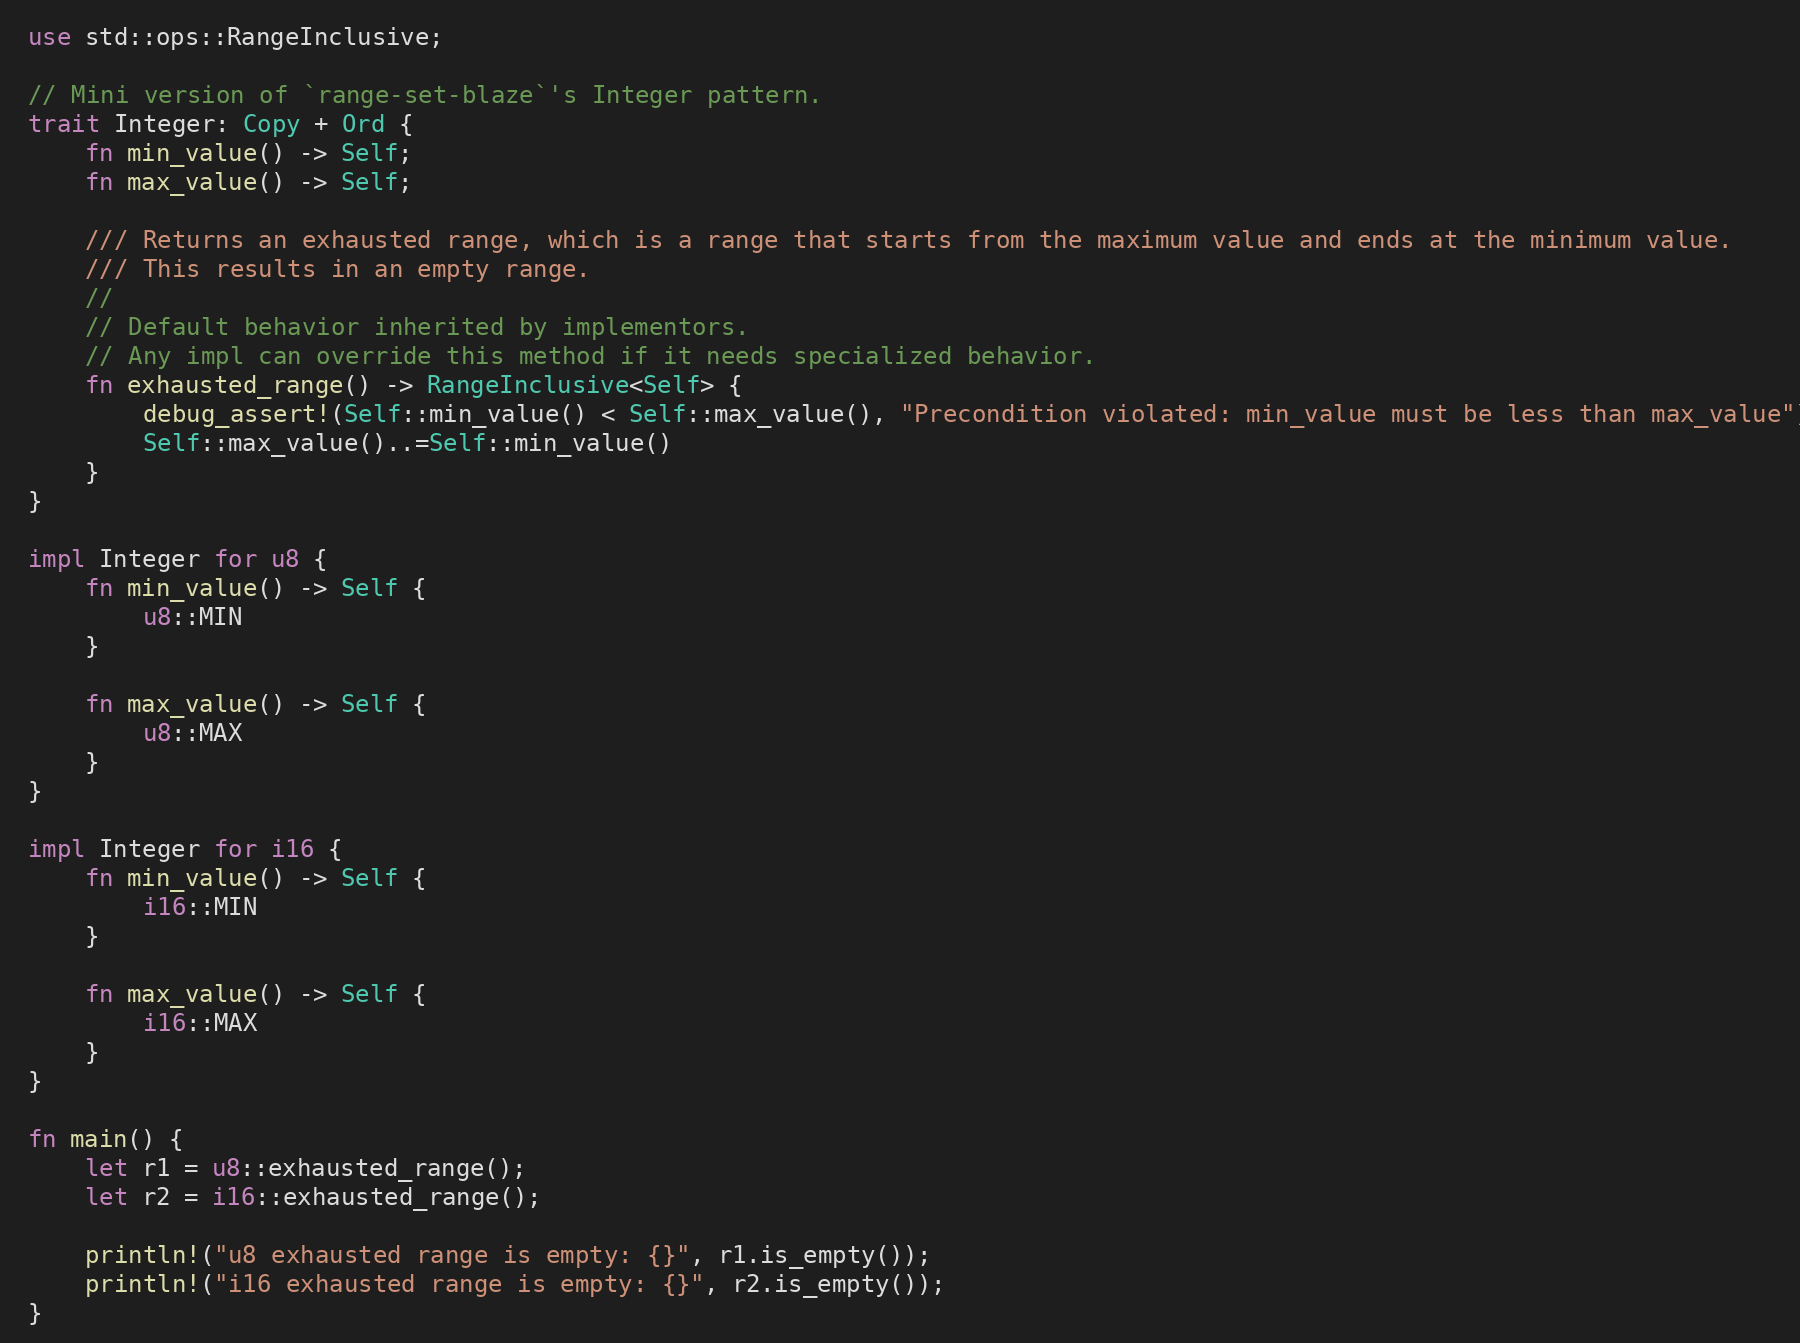
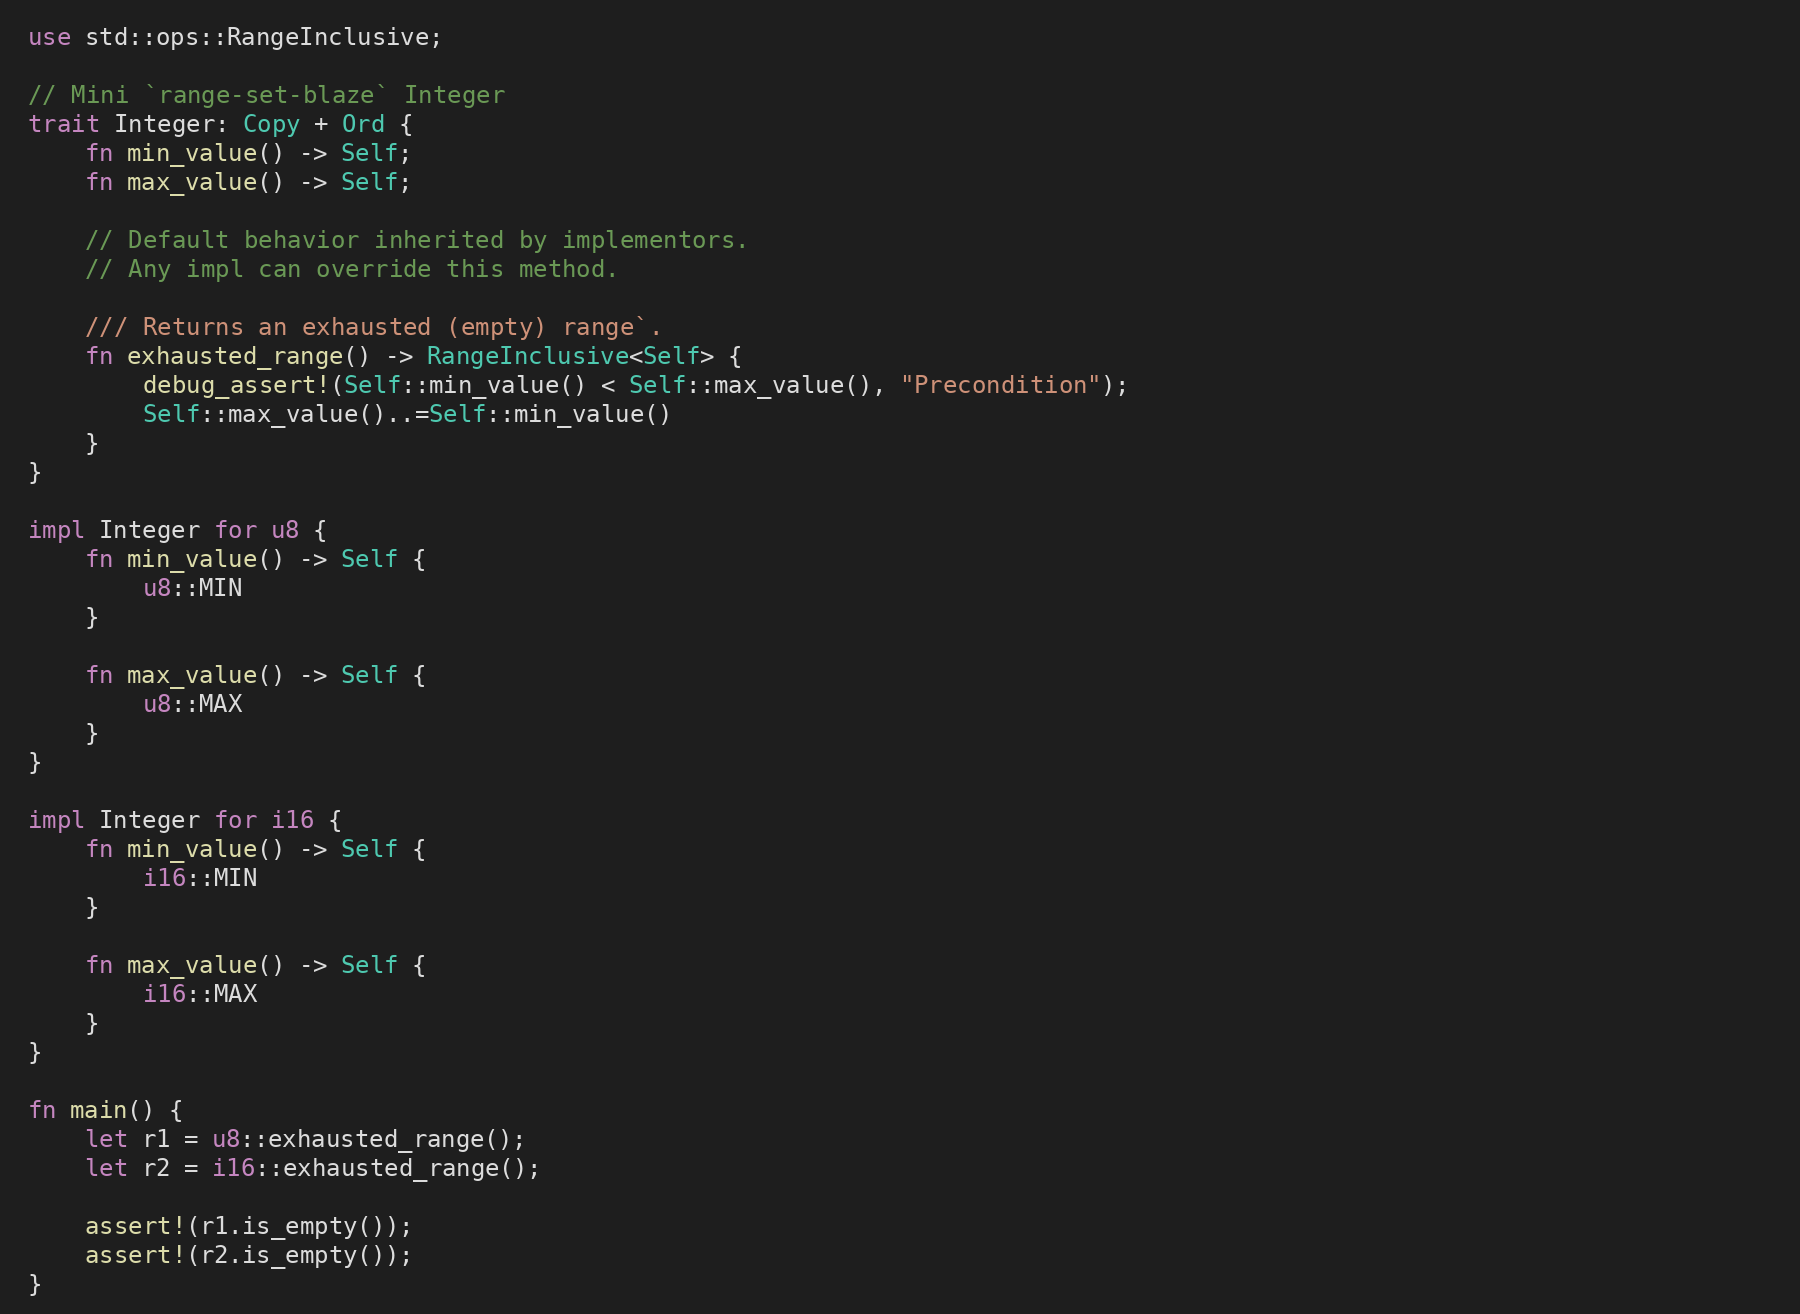
example 1 looks good

diff --git a/examples/1_default_methods.rs b/examples/1_default_methods.rs
@@ -1,17 +1,16 @@
 use std::ops::RangeInclusive;
 
-// Mini version of `range-set-blaze`'s Integer pattern.
+// Mini `range-set-blaze` Integer
 trait Integer: Copy + Ord {
     fn min_value() -> Self;
     fn max_value() -> Self;
 
-    /// Returns an exhausted range, which is a range that starts from the maximum value and ends at the minimum value.
-    /// This results in an empty range.
-    //
     // Default behavior inherited by implementors.
-    // Any impl can override this method if it needs specialized behavior.
+    // Any impl can override this method.
+
+    /// Returns an exhausted (empty) range`.
     fn exhausted_range() -> RangeInclusive<Self> {
-        debug_assert!(Self::min_value() < Self::max_value(), "Precondition violated: min_value must be less than max_value");
+        debug_assert!(Self::min_value() < Self::max_value(), "Precondition");
         Self::max_value()..=Self::min_value()
     }
 }
@@ -40,6 +39,6 @@ fn main() {
     let r1 = u8::exhausted_range();
     let r2 = i16::exhausted_range();
 
-    println!("u8 exhausted range is empty: {}", r1.is_empty());
-    println!("i16 exhausted range is empty: {}", r2.is_empty());
+    assert!(r1.is_empty());
+    assert!(r2.is_empty());
 }

diff --git a/examples/1_puzzle.md b/examples/1_puzzle.md
@@ -1,6 +1,6 @@
 # Puzzle 1
 
-In our library for sets of integers, we require that all integers have certain functions like `min_value`. We also want all integers to inherit certain other functions such as `exhausted_range`.
+We store sets of integers, `u8`, `i16`, etc.. Every integer type must have functions like `min_value`. We also want all integers to inherit certain other functions such as `exhausted_range`.
 
 ```mermaid
 classDiagram